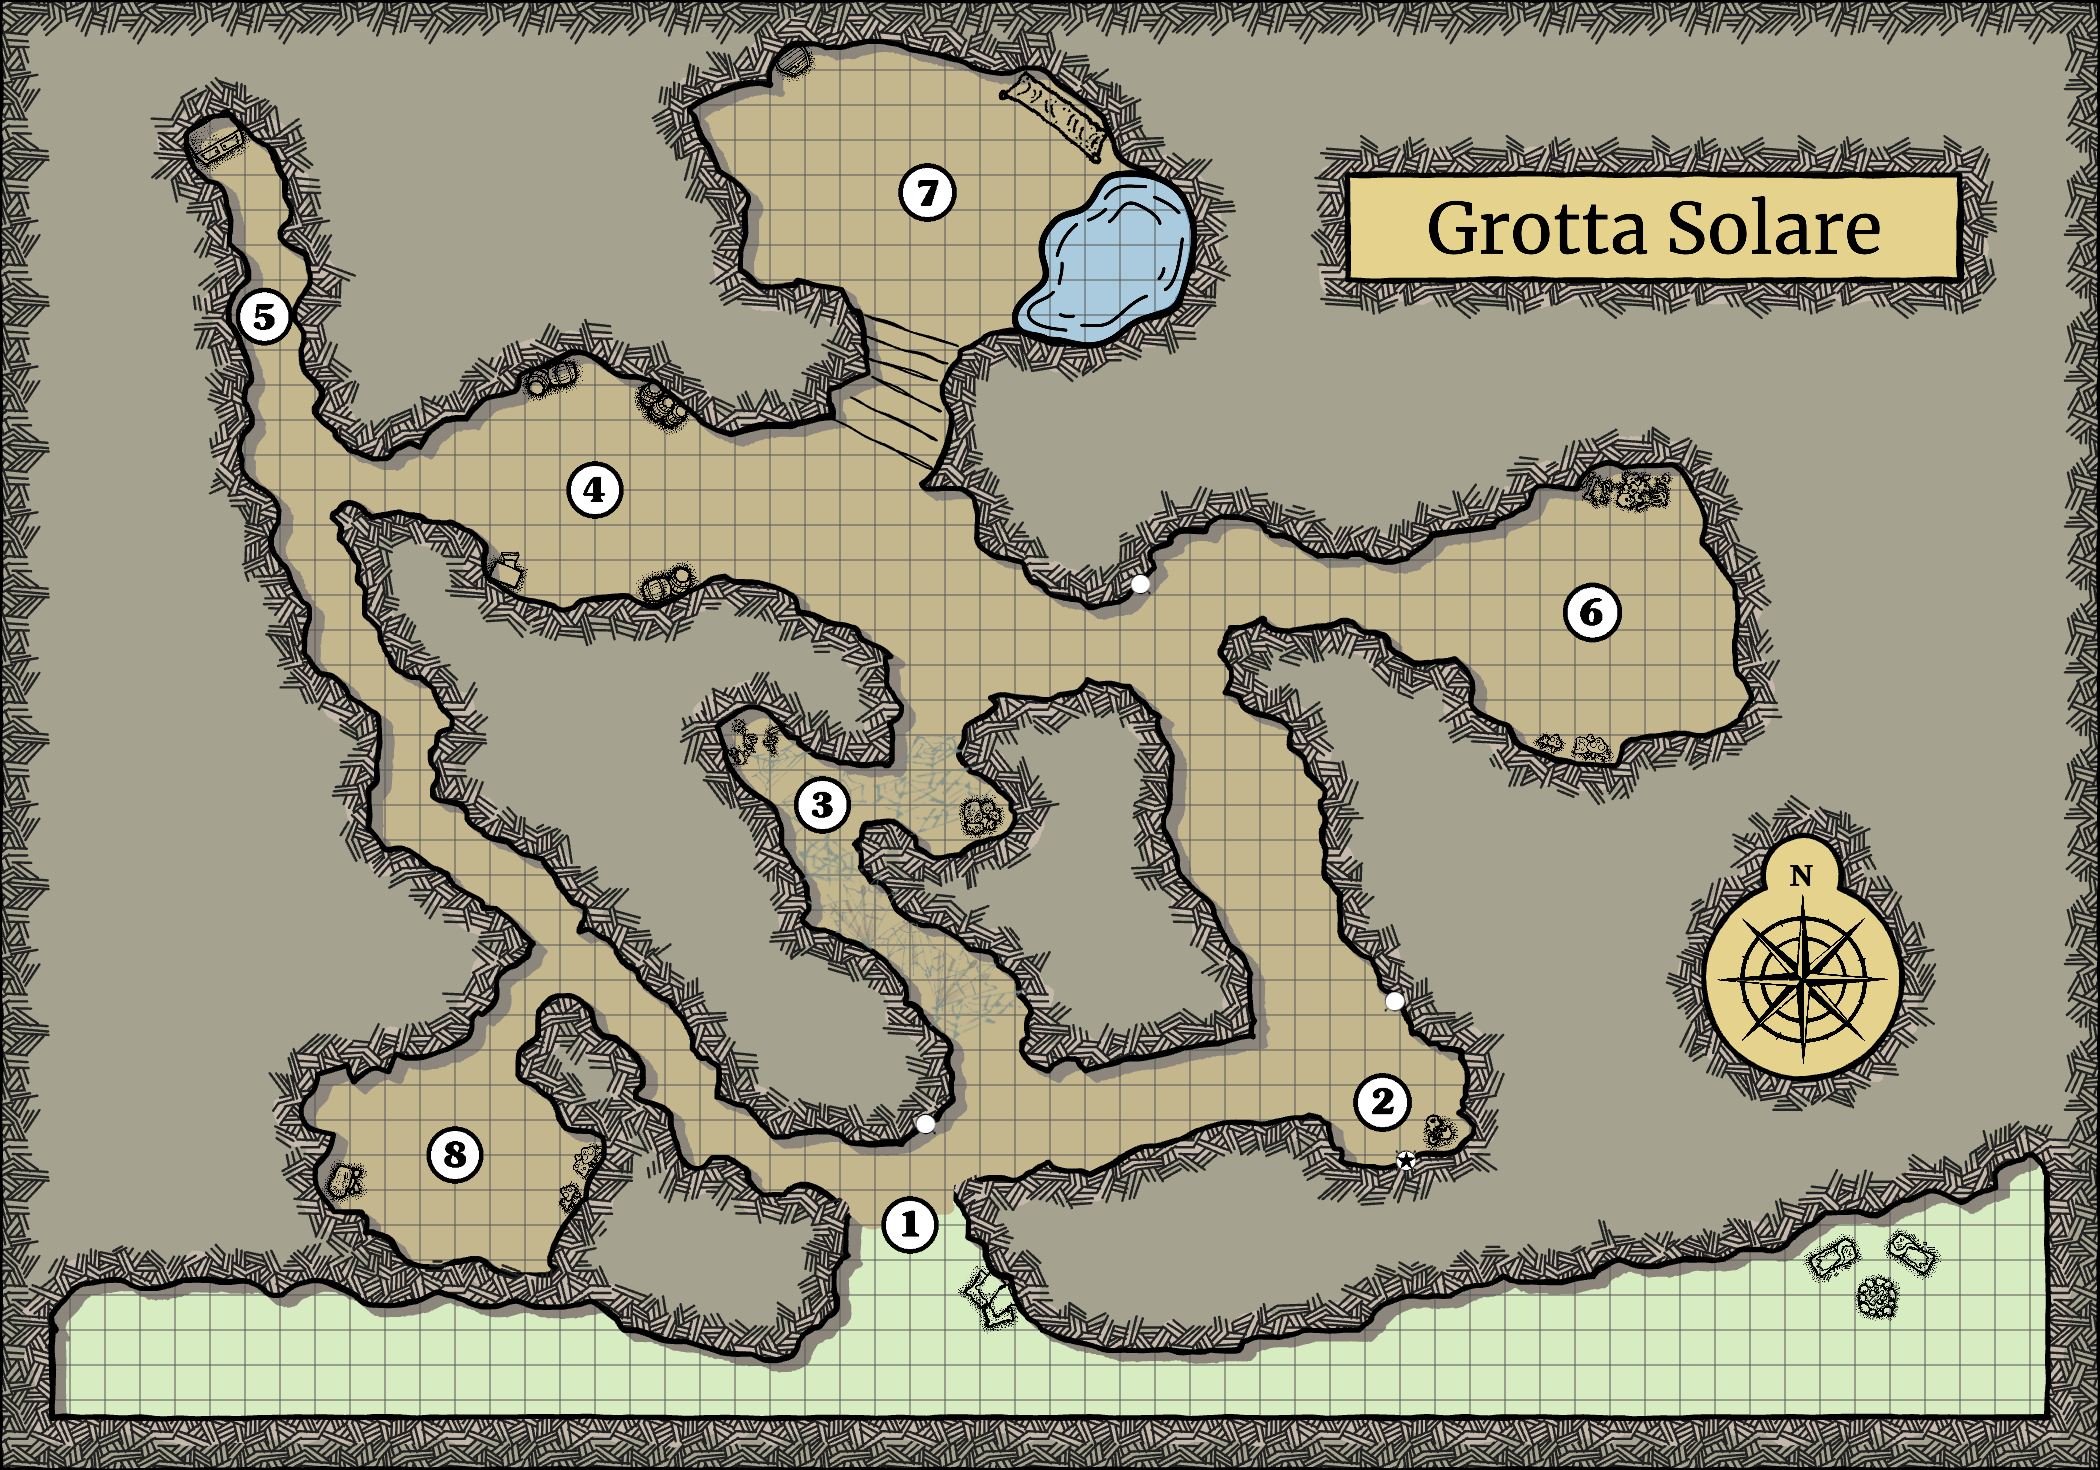
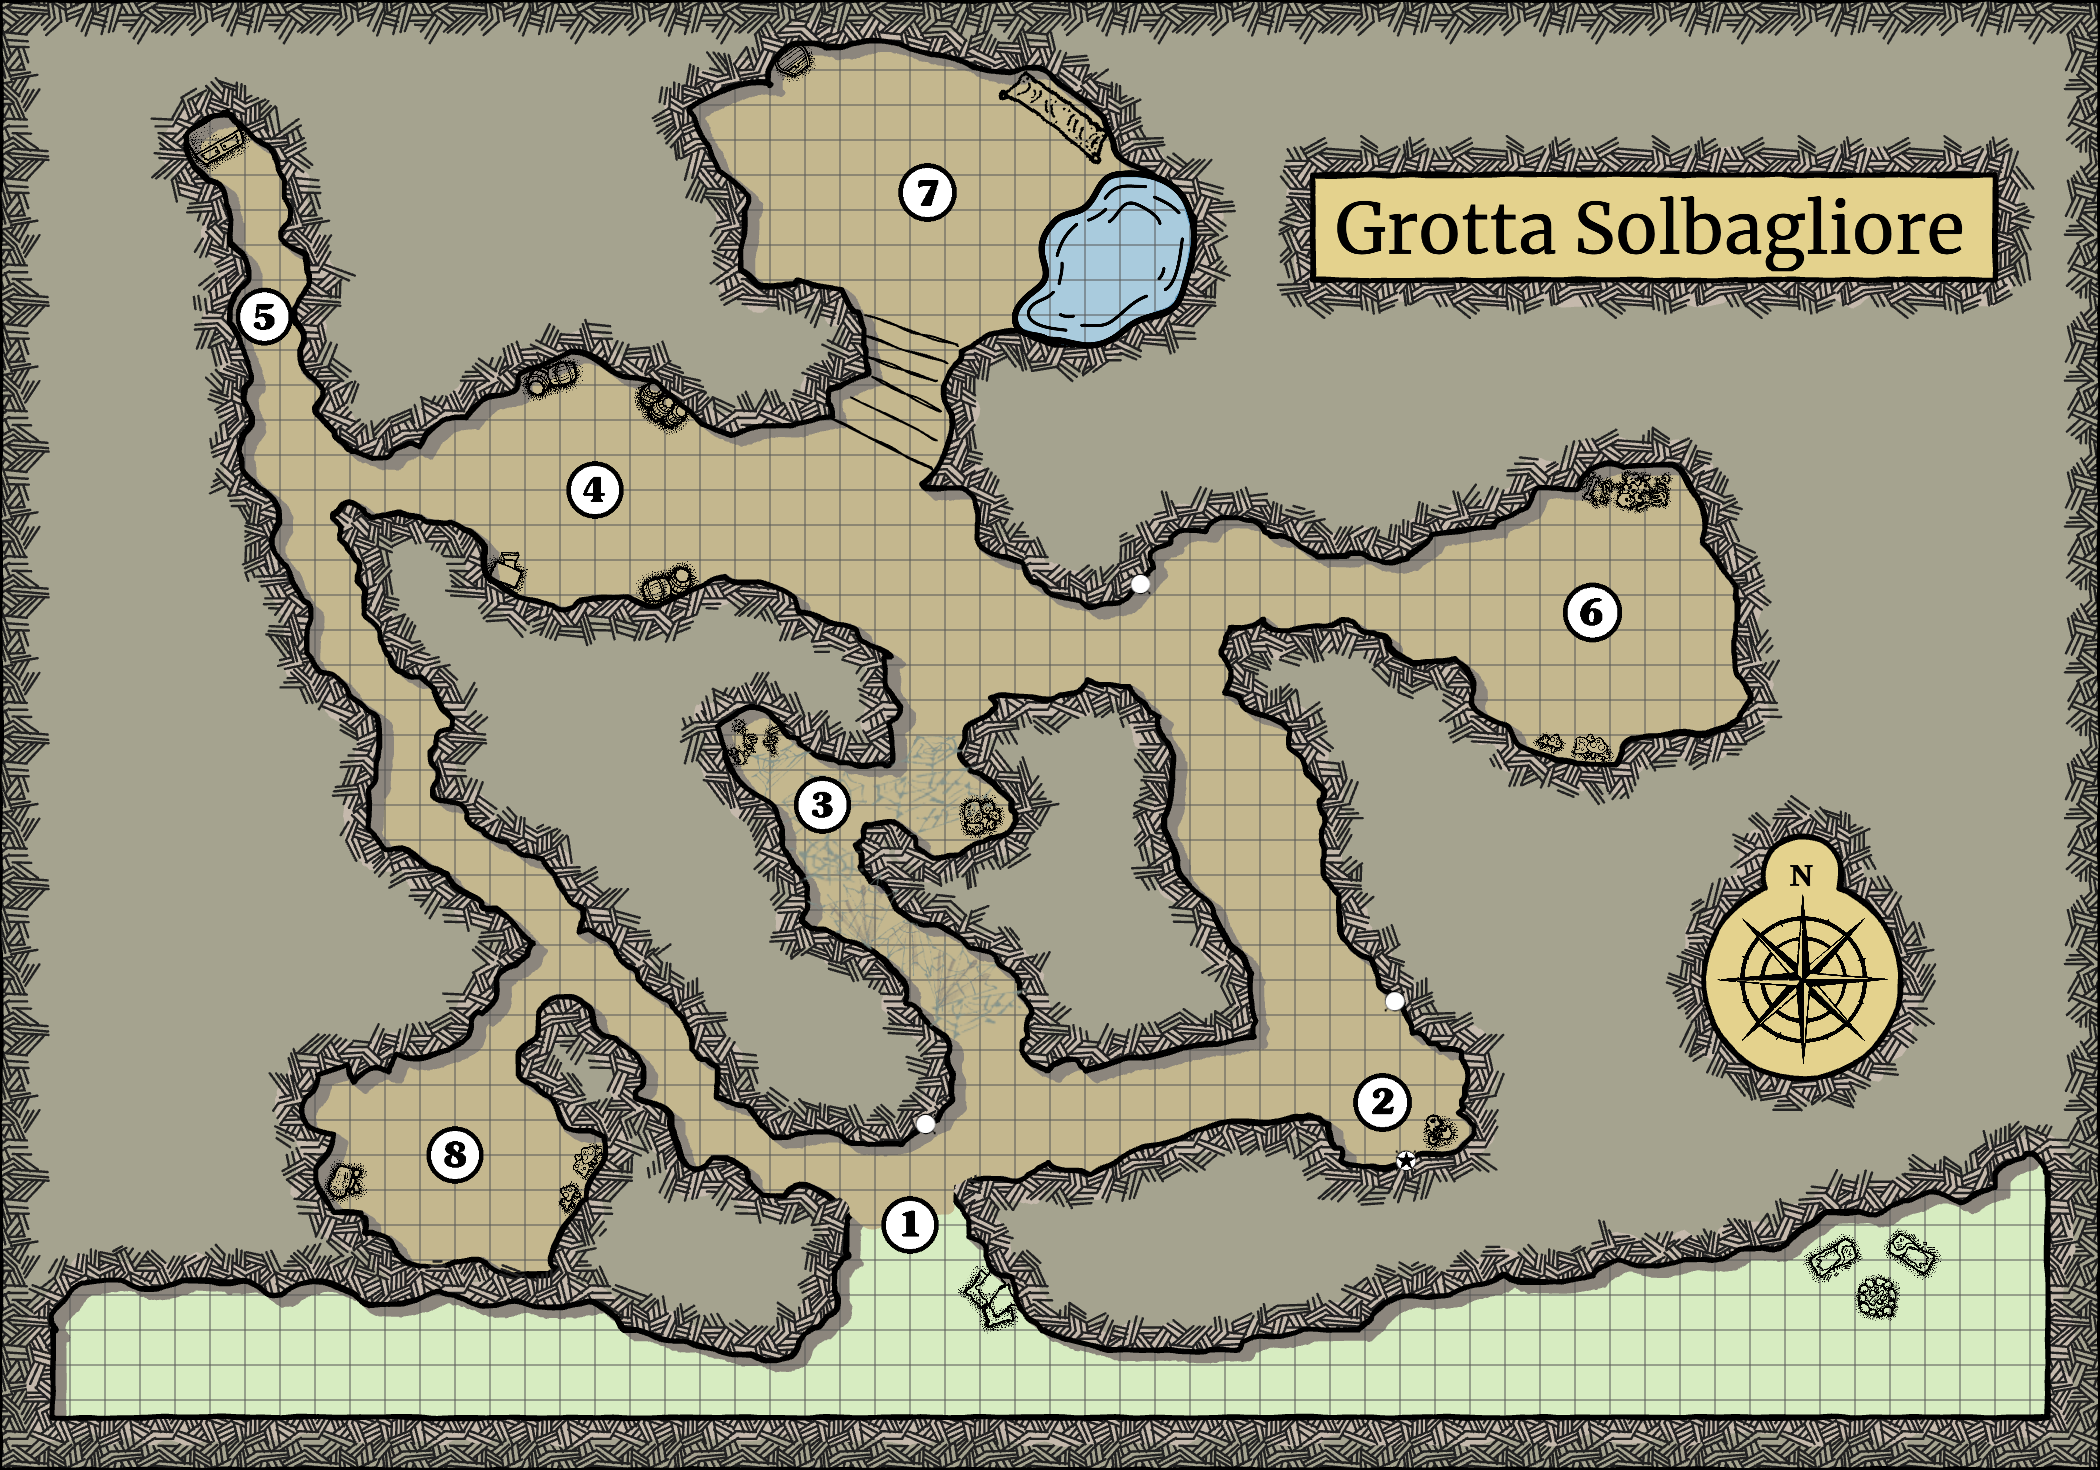
Sunbathed Cave: rename Grotta Solare to Grotta Solbagliore in Italian

diff --git a/Sunbathed Cave/Sunbathed Cave (IT).md b/Sunbathed Cave/Sunbathed Cave (IT).md
@@ -1,6 +1,6 @@
-# La Grotta Solare
+# La Grotta Solbagliore
 
-Avventurieri! Esplorate la Grotta Solare, alla ricerca del raro e prezioso _muschio stella_. Questa breve avventura per D&D 5e (2024) è pensata per un gruppo di quattro o cinque personaggi di 2° livello. Dovrebbe durare non più di cinque ore e include alcuni incontri e piccoli enigmi.
+Avventurieri! Ecco la Grotta Solbagliore, venite alla ricerca del raro e prezioso _muschio stella_. Questa breve avventura per D&D 5e (2024) è pensata per un gruppo di quattro o cinque personaggi di 2° livello. Dovrebbe durare non più di cinque ore e include alcuni incontri e piccoli enigmi.
 
 ## Informazioni
 
@@ -15,14 +15,14 @@ Mappa creata con [Dungeon Scrawl](https://www.dungeonscrawl.com).
 
 ## Premessa
 
-Ai giocatori è stato richiesto di recuperare del _muschio stella_ dalle camere interne della Grotta Solare e di riportarne indietro quanto più possibile.
+Ai giocatori è stato richiesto di recuperare del _muschio stella_ dalle camere interne della Grotta Solbagliore e di riportarne indietro quanto più possibile.
 
 Dettagli come la posizione della grotta, lo scopo del muschio e l’urgenza della missione sono lasciati al GM che conduce questa mini-avventura.
 
 {{note
 ##### Esempio: Un Sonno Maledetto
 
-Alcuni abitanti di un villaggio nella foresta sono caduti in un profondo sonno, una maledizione da cui non possono essere risvegliati senza aiuto magico. L’anziano del villaggio incarica gli avventurieri di recuperare del _muschio stella_, l’ingrediente chiave dell’antidoto, dalla Grotta Solare, un tempo luogo di raccolta del muschio, ora reclamato dalla natura. La quantità di muschio che il gruppo riuscirà a ottenere determinerà quante pozioni l’alchimista locale potrà preparare e, di conseguenza, quanti abitanti potranno essere salvati dalla maledizione.
+Alcuni abitanti di un villaggio nella foresta sono caduti in un profondo sonno, una maledizione da cui non possono essere risvegliati senza aiuto magico. L’anziano del villaggio incarica gli avventurieri di recuperare del _muschio stella_, l’ingrediente chiave dell’antidoto, dalla Grotta Solbagliore, un tempo luogo di raccolta del muschio, ora reclamato dalla natura. La quantità di muschio che il gruppo riuscirà a ottenere determinerà quante pozioni l’alchimista locale potrà preparare e, di conseguenza, quanti abitanti potranno essere salvati dalla maledizione.
 }}
 
 ## Muschio Stella
@@ -33,7 +33,7 @@ Il valore del muschio, così come eventuali proprietà aggiuntive, è lasciato a
 
 ## La Grotta
 
-La Grotta Solare deve il suo nome all’ingresso rivolto a sud, che riceve la luce solare per gran parte della giornata. I riflessi sulle pareti cristalline riempiono i corridoi di un tenue bagliore caldo.
+La Grotta Solbagliore deve il suo nome all’ingresso rivolto a sud, che riceve la luce solare per gran parte della giornata. I riflessi sulle pareti cristalline riempiono i corridoi di un tenue bagliore caldo.
 
 La grotta è anche l'ambiente ideale per il _muschio stella_. L’umidità e l’oscurità delle camere più profonde permettono alla pianta di prosperare rigogliosa.
 
@@ -55,7 +55,7 @@ I miconoidi non tollerano alcuna forma di luce e considerano gli ogre i guardian
 
 ### Rugginofaghi
 
-Una colonia di rugginofaghi prospera nelle profondità sotterranee. Quando i loro tunnel sbucarono nella Grotta Solare, gli insetti incontrarono i miconoidi. Alcuni furono condizionati dalle spore del sovrano e ora si comportano come bestiame semi-addomesticato, rispondendo prontamente ai suoi comandi.
+Una colonia di rugginofaghi prospera nelle profondità sotterranee. Quando i loro tunnel sbucarono nella Grotta Solbagliore, gli insetti incontrarono i miconoidi. Alcuni furono condizionati dalle spore del sovrano e ora si comportano come bestiame semi-addomesticato, rispondendo prontamente ai suoi comandi.
 
 ## Gestire l’Avventura
 
@@ -238,7 +238,7 @@ Quando i giocatori entrano nella stanza, il sovrano comunica con loro. La sua at
 
 ## Conclusione
 
-Una volta che i giocatori hanno raccolto il _muschio stella_ dalle camere illuminate, possono lasciare la Grotta Solare in qualsiasi momento. Gli abitanti della grotta non li inseguono all’esterno.
+Una volta che i giocatori hanno raccolto il _muschio stella_ dalle camere illuminate, possono lasciare la Grotta Solbagliore in qualsiasi momento. Gli abitanti della grotta non li inseguono all’esterno.
 
 Consegnare il muschio al mandante conclude l’avventura. La quantità di muschio recuperata determina quante dosi di medicina potranno essere prodotte, o quante persone potranno essere aiutate, a seconda della premessa scelta dal GM.
 
